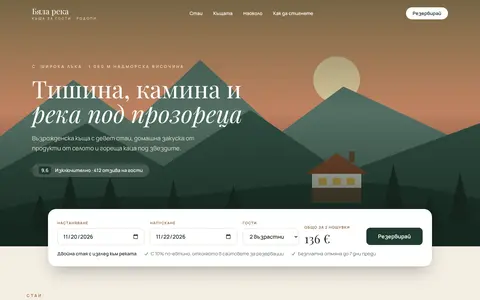
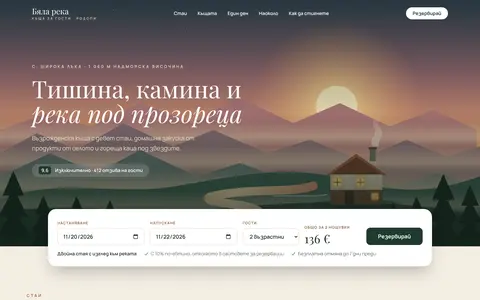
Polish pass on the guest house site
The last of the ten industry sites gets the same pass as the others: a
richer sunset hero, three distinct room pictures, redrawn hot tub and
breakfast pictures, a menu for phones, a short strip about a day at the
house, and hover and entrance motion that is off under reduced motion.
The card screenshot is re-shot.

Claude-Session: https://claude.ai/code/session_01PmsG7av4E6jJnzP6KHLSYz

diff --git a/resources/views/demos/kashta-za-gosti.blade.php b/resources/views/demos/kashta-za-gosti.blade.php
@@ -12,13 +12,28 @@
 @endphp
 
 @section('content')
-<header class="absolute inset-x-0 z-40 text-white">
+<header class="absolute inset-x-0 z-50 text-white">
     <nav class="mx-auto flex h-20 max-w-7xl items-center justify-between px-4">
-        <a href="#" class="demo-serif text-2xl">Бяла река <span class="block text-[10px] font-sans font-semibold uppercase tracking-[0.3em] text-[#e6d3b3]">Къща за гости · Родопи</span></a>
+        <a href="#" class="demo-serif relative z-10 text-2xl">Бяла река <span class="block whitespace-nowrap text-[10px] font-sans font-semibold uppercase tracking-[0.2em] sm:tracking-[0.3em] text-[#e6d3b3]">Къща за гости · Родопи</span></a>
         <div class="hidden items-center gap-8 text-sm font-semibold md:flex">
-            <a href="#stai" class="hover:text-[#e6d3b3]">Стаи</a><a href="#kashtata" class="hover:text-[#e6d3b3]">Къщата</a><a href="#naokolo" class="hover:text-[#e6d3b3]">Наоколо</a><a href="#kontakt" class="hover:text-[#e6d3b3]">Как да стигнете</a>
+            <a href="#stai" class="bz-link">Стаи</a><a href="#kashtata" class="bz-link">Къщата</a><a href="#den" class="bz-link">Един ден</a><a href="#naokolo" class="bz-link">Наоколо</a><a href="#kontakt" class="bz-link">Как да стигнете</a>
         </div>
-        <a href="#rezervaciya" class="rounded-full bg-white px-5 py-2 text-sm font-bold text-[#1f3a2e] hover:bg-[#e6d3b3]">Резервирай</a>
+        <div class="flex items-center gap-2">
+            <a href="#rezervaciya" class="rounded-full bg-white px-5 py-2 text-sm font-bold text-[#1f3a2e] transition hover:bg-[#e6d3b3]">Резервирай</a>
+            <details data-menu class="md:hidden">
+                <summary aria-label="Меню" class="relative z-10 flex h-10 w-10 cursor-pointer list-none items-center justify-center rounded-full border border-white/50 bg-[#14261d]/70 text-white backdrop-blur [&::-webkit-details-marker]:hidden">
+                    <svg viewBox="0 0 24 24" class="h-5 w-5" fill="none" stroke="currentColor" stroke-width="2" stroke-linecap="round"><path class="bz-b1" d="M4 7h16"/><path class="bz-b2" d="M4 12h16"/><path class="bz-b3" d="M4 17h16"/></svg>
+                </summary>
+                <div class="absolute inset-x-0 top-0 -z-0 bg-[#14261d] px-4 pb-6 pt-20 shadow-2xl">
+                    <div class="flex flex-col divide-y divide-white/10 text-lg">
+                        @foreach([['#stai', 'Стаи'], ['#kashtata', 'Къщата'], ['#den', 'Един ден при нас'], ['#naokolo', 'Наоколо'], ['#kontakt', 'Как да стигнете']] as [$href, $label])
+                            <a href="{{ $href }}" class="demo-serif py-3.5 text-white">{{ $label }}</a>
+                        @endforeach
+                    </div>
+                    <a href="#rezervaciya" class="mt-4 block rounded-full bg-[#e6d3b3] py-3.5 text-center font-bold text-[#1f3a2e]">Резервирай</a>
+                </div>
+            </details>
+        </div>
     </nav>
 </header>
 
@@ -26,13 +41,49 @@
 <section class="relative overflow-hidden bg-[#1f3a2e] text-white">
     <x-demo-photo :slug="$demo['slug']" name="hero" alt="Къщата сред Родопите" class="absolute inset-0 h-full w-full">
         <svg viewBox="0 0 1440 760" preserveAspectRatio="xMidYMid slice" class="h-full w-full" fill="none">
-            <defs><linearGradient id="sky" x1="0" y1="0" x2="0" y2="1"><stop stop-color="#f0b97a"/><stop offset=".55" stop-color="#d98a6a"/><stop offset="1" stop-color="#45645a"/></linearGradient></defs>
-            <rect width="1440" height="760" fill="url(#sky)"/><circle cx="1010" cy="250" r="70" fill="#fbe3b0"/>
-            <path d="M0 420 220 250l180 130 200-190 240 220 190-140 410 190v300H0Z" fill="#5f7d70"/>
-            <path d="M0 520 260 380l230 130 260-170 280 190 410-150v380H0Z" fill="#345246"/>
-            <path d="M0 640c240-70 420-20 640-50s520-60 800 20v150H0Z" fill="#1f3a2e"/>
-            <g transform="translate(930 470)"><path d="M-14 62 80 0l94 62Z" fill="#8a4a2a"/><rect x="6" y="62" width="148" height="86" fill="#f4eee3"/><rect x="6" y="104" width="148" height="44" fill="#6b4a33"/><g fill="#f6c453"><rect x="26" y="74" width="24" height="22"/><rect x="68" y="74" width="24" height="22"/><rect x="110" y="74" width="24" height="22"/></g><rect x="118" y="-6" width="16" height="34" fill="#6b4a33"/></g>
-            <g fill="#16291f">@foreach([120, 210, 330, 520, 700, 1180, 1290, 1380] as $i => $x)<path d="M{{ $x }} {{ 700 - ($i % 3) * 24 }}l-34 0 34-{{ 110 + ($i % 2) * 40 }} 34 {{ 110 + ($i % 2) * 40 }}Z"/>@endforeach</g>
+            <defs>
+                <linearGradient id="kz-sky" x1="0" y1="0" x2="0" y2="1"><stop stop-color="#3b4f6b"/><stop offset=".3" stop-color="#a5707a"/><stop offset=".6" stop-color="#f0a56f"/><stop offset="1" stop-color="#f9d49a"/></linearGradient>
+                <radialGradient id="kz-sun" cx=".5" cy=".5" r=".5"><stop stop-color="#fff2c8"/><stop offset=".25" stop-color="#fbd38e" stop-opacity=".85"/><stop offset="1" stop-color="#f4a672" stop-opacity="0"/></radialGradient>
+                <linearGradient id="kz-mist" x1="0" y1="0" x2="0" y2="1"><stop stop-color="#f8d9b0" stop-opacity="0"/><stop offset=".6" stop-color="#f8d9b0" stop-opacity=".55"/><stop offset="1" stop-color="#f8d9b0" stop-opacity="0"/></linearGradient>
+                <linearGradient id="kz-r1" x1="0" y1="0" x2="0" y2="1"><stop stop-color="#b57a7e"/><stop offset="1" stop-color="#c58f80"/></linearGradient>
+                <linearGradient id="kz-r2" x1="0" y1="0" x2="0" y2="1"><stop stop-color="#8a6f7a"/><stop offset="1" stop-color="#a88378"/></linearGradient>
+                <linearGradient id="kz-r3" x1="0" y1="0" x2="0" y2="1"><stop stop-color="#5f6f6e"/><stop offset="1" stop-color="#7d8479"/></linearGradient>
+                <linearGradient id="kz-r4" x1="0" y1="0" x2="0" y2="1"><stop stop-color="#3b5a4e"/><stop offset="1" stop-color="#53705f"/></linearGradient>
+                <linearGradient id="kz-meadow" x1="0" y1="0" x2="0" y2="1"><stop stop-color="#33503f"/><stop offset="1" stop-color="#1c3226"/></linearGradient>
+                <linearGradient id="kz-river" x1="0" y1="0" x2="1" y2="0"><stop stop-color="#e9a77a"/><stop offset=".5" stop-color="#fbe0b0"/><stop offset="1" stop-color="#d98f6c"/></linearGradient>
+                <radialGradient id="kz-win" cx=".5" cy=".5" r=".5"><stop stop-color="#ffd978"/><stop offset="1" stop-color="#ffb347" stop-opacity="0"/></radialGradient>
+                <linearGradient id="kz-smoke" x1="0" y1="1" x2="0" y2="0"><stop stop-color="#f4e6d2" stop-opacity=".6"/><stop offset="1" stop-color="#f4e6d2" stop-opacity="0"/></linearGradient>
+            </defs>
+            <rect width="1440" height="760" fill="url(#kz-sky)"/>
+            <g fill="#fff" opacity=".7"><circle cx="120" cy="70" r="1.5"/><circle cx="340" cy="40" r="1.2"/><circle cx="560" cy="95" r="1.4"/><circle cx="760" cy="30" r="1.2"/><circle cx="1240" cy="60" r="1.5"/><circle cx="1380" cy="130" r="1.2"/></g>
+            
+            <circle class="kz-sun" cx="1010" cy="330" r="260" fill="url(#kz-sun)"/><circle cx="1010" cy="330" r="62" fill="#fff0c4"/>
+            <path d="M0 400 140 350l130 40 150-70 160 60 130-80 170 80 140-60 150 70 130-50 130 60v280H0Z" fill="url(#kz-r1)"/>
+            <rect y="380" width="1440" height="70" fill="url(#kz-mist)"/>
+            <path d="M0 470 110 410l120 50 140-80 150 70 120-50 160 70 130-40 150 60 140-60 120 50 100-30v250H0Z" fill="url(#kz-r2)"/>
+            <rect y="450" width="1440" height="80" fill="url(#kz-mist)"/>
+            <path d="M0 540 150 470l140 60 130-70 170 80 130-40 190 70 120-60 150 60 130-40 130 40v220H0Z" fill="url(#kz-r3)"/>
+            <rect y="520" width="1440" height="90" fill="url(#kz-mist)"/>
+            <path d="M0 610C180 540 330 600 520 570s330-70 520-20 280 30 400-10v220H0Z" fill="url(#kz-r4)"/>
+            <rect y="585" width="1440" height="70" fill="url(#kz-mist)" opacity=".8"/>
+            <path d="M0 650c200-40 420 10 640-12s520-40 800 20v110H0Z" fill="url(#kz-meadow)"/>
+            <path d="M470 760c60-40 180-52 260-80s60-44-40-58c-90-12-90-22 20-34 90-10 170 0 230-20" stroke="url(#kz-river)" stroke-width="26" stroke-linecap="round" opacity=".95"/>
+            <path d="M520 740c70-30 170-44 240-66M820 600c60-6 120 2 160-6" stroke="#fff" stroke-opacity=".55" stroke-width="3" stroke-linecap="round"/>
+            <g transform="translate(985 470)">
+                <ellipse cx="85" cy="152" rx="130" ry="14" fill="#14261d" opacity=".45"/>
+                <path d="M-6 66 84 2l90 64Z" fill="#6b3d28"/><path d="M-6 66 84 2l90 64-10 0L84 12 4 66Z" fill="#9a5836"/>
+                <rect x="6" y="64" width="156" height="90" fill="#cdbfa6"/><rect x="6" y="110" width="156" height="44" fill="#6b4a33"/>
+                <path d="M6 128h156M6 140h156" stroke="#4a3022" stroke-width="1.5"/>
+                <path d="M6 64h40v46H6ZM74 64h44v46H74Z" fill="#b9a98c" opacity=".6"/>
+                <rect x="124" y="-14" width="18" height="38" fill="#6f6a60"/><rect x="121" y="-18" width="24" height="7" fill="#4a463f"/>
+                <g><circle cx="26" cy="86" r="22" fill="url(#kz-win)"/><circle cx="96" cy="86" r="22" fill="url(#kz-win)"/><circle cx="140" cy="130" r="18" fill="url(#kz-win)"/>
+                <rect x="16" y="76" width="22" height="22" fill="#ffd36e"/><rect x="86" y="76" width="22" height="22" fill="#ffd36e"/><rect x="130" y="120" width="20" height="20" fill="#ffc25a"/>
+                <path d="M27 76v22M16 87h22M97 76v22M86 87h22" stroke="#6b4a33" stroke-width="2"/></g>
+                <rect x="50" y="112" width="26" height="42" rx="3" fill="#3c2a1e"/>
+                <path class="kz-smoke" d="M133-20c-14-22 18-34 4-58s20-36 8-62c26 20-6 40 10 62s-6 36-4 58Z" fill="url(#kz-smoke)"/>
+            </g>
+            <g fill="#12241b">@foreach([[40, 770, 1.15], [130, 790, .9], [230, 760, .75], [330, 740, .6], [1250, 750, .7], [1330, 790, 1.2], [1410, 770, .95], [1180, 735, .55]] as [$x, $y, $k])<g transform="translate({{ $x }} {{ $y }}) scale({{ $k }})"><path d="M-46-40 0-120 46-40Z"/><path d="M-38-95 0-170 38-95Z"/><path d="M-28-150 0-215 28-150Z"/><rect x="-5" y="-40" width="10" height="40"/></g>@endforeach</g>
+            <g fill="#f4d9b0" opacity=".5">@foreach([[560, 700], [900, 660], [300, 690], [1100, 640]] as [$x, $y])<circle class="kz-fly" cx="{{ $x }}" cy="{{ $y }}" r="2.2"/>@endforeach</g>
         </svg>
     </x-demo-photo>
     <div class="absolute inset-0 bg-[linear-gradient(180deg,rgba(18,32,26,.55)_0%,rgba(18,32,26,.15)_45%,rgba(18,32,26,.8)_100%)]"></div>
@@ -63,7 +114,7 @@
 </section>
 
 {{-- Rooms --}}
-<section id="stai" class="scroll-mt-16 px-4 py-20">
+<section id="stai" class="dr scroll-mt-16 px-4 py-20">
     <div class="mx-auto max-w-7xl">
         <div class="flex flex-wrap items-end justify-between gap-4">
             <div><p class="text-xs font-bold uppercase tracking-[0.3em] text-[#b5683c]">Стаи</p><h2 class="demo-serif mt-3 text-4xl md:text-5xl">Изберете своята стая</h2></div>
@@ -71,9 +122,31 @@
         </div>
         <div data-pick="room" class="dr mt-12 grid gap-6 lg:grid-cols-3">
             @foreach($rooms as $i => [$name, $meta, $price, $tags, $color])
-                <button type="button" data-value="{{ $name }}" data-price="{{ $price }}" aria-pressed="{{ $i === 0 ? 'true' : 'false' }}" class="group flex flex-col overflow-hidden rounded-3xl bg-white text-left ring-1 ring-[#e2d8c6] transition hover:-translate-y-1 hover:shadow-xl aria-pressed:ring-2 aria-pressed:ring-[#1f3a2e]">
+                <button type="button" data-value="{{ $name }}" data-price="{{ $price }}" aria-pressed="{{ $i === 0 ? 'true' : 'false' }}" class="bz-lift group flex flex-col overflow-hidden rounded-3xl bg-white text-left ring-1 ring-[#e2d8c6] transition hover:-translate-y-1 hover:shadow-xl aria-pressed:ring-2 aria-pressed:ring-[#1f3a2e]">
                     <x-demo-photo :slug="$demo['slug']" name="room-{{ $i + 1 }}" alt="{{ $name }}" class="relative block aspect-[4/3] w-full" style="background: linear-gradient(170deg, {{ $color }}55, {{ $color }})">
-                        <svg viewBox="0 0 400 300" class="h-full w-full" preserveAspectRatio="xMidYMid slice" fill="none"><rect x="230" y="40" width="130" height="110" fill="#f4eee3" opacity=".9"/><path d="M230 95h130M295 40v110" stroke="{{ $color }}" stroke-width="5"/><path d="M40 300v-90c0-10 8-18 18-18h220c10 0 18 8 18 18v90Z" fill="#f4eee3"/><rect x="40" y="150" width="256" height="56" rx="12" fill="#1d2b24" opacity=".75"/><rect x="62" y="176" width="92" height="36" rx="10" fill="#fff"/><rect x="176" y="176" width="92" height="36" rx="10" fill="#fff"/><path d="M40 244h256" stroke="{{ $color }}" stroke-width="10"/><path d="M330 300v-70m0 0c-14 0-20-12-20-24h40c0 12-6 24-20 24Z" stroke="#1d2b24" stroke-width="4"/></svg>
+                        <svg viewBox="0 0 400 300" class="h-full w-full" preserveAspectRatio="xMidYMid slice" fill="none">
+                            <defs><linearGradient id="rw{{ $i }}" x1="0" y1="0" x2="0" y2="1"><stop stop-color="#f1c58f"/><stop offset="1" stop-color="#9fb7a0"/></linearGradient><linearGradient id="rf{{ $i }}" x1="0" y1="0" x2="0" y2="1"><stop stop-color="#a47a56"/><stop offset="1" stop-color="#7a5539"/></linearGradient></defs>
+                            <rect width="400" height="300" fill="#e9dcc3"/><rect y="236" width="400" height="64" fill="url(#rf{{ $i }})"/><path d="M0 236h400" stroke="#5e4029" stroke-width="3"/>
+                            @if($i === 0)
+                                <rect x="214" y="30" width="150" height="130" rx="6" fill="#5d4330"/><rect x="222" y="38" width="134" height="114" fill="url(#rw{{ $i }})"/>
+                                <path d="M222 120 270 92l36 24 50-30v66H222Z" fill="#6c8a73"/><path d="M222 140c40-14 80 6 134-6v18H222Z" fill="#8fc0cf"/><path d="M240 146h60M310 142h40" stroke="#fff" stroke-opacity=".7" stroke-width="2"/><path d="M289 38v114M222 95h134" stroke="#5d4330" stroke-width="5"/>
+                                <path d="M200 30c20 40 6 90 14 130M376 30c-14 40 0 90-12 130" stroke="#b5683c" stroke-width="16" opacity=".85"/>
+                                <rect x="30" y="150" width="150" height="86" rx="8" fill="#6b4a33"/><rect x="24" y="116" width="162" height="50" rx="10" fill="#8a5a3a"/><rect x="34" y="150" width="142" height="62" rx="10" fill="#f8f3ea"/><rect x="44" y="132" width="52" height="30" rx="12" fill="#fff"/><rect x="104" y="132" width="52" height="30" rx="12" fill="#fff"/><path d="M34 188h142v24c0 4-4 6-8 6H42c-4 0-8-2-8-6Z" fill="#b5683c"/>
+                                <rect x="196" y="204" width="26" height="32" rx="3" fill="#6b4a33"/><circle cx="209" cy="194" r="10" fill="#ffd36e"/><circle cx="209" cy="194" r="22" fill="#ffd36e" opacity=".25"/>
+                            @elseif($i === 1)
+                                <rect x="24" y="50" width="120" height="110" rx="6" fill="#5d4330"/><rect x="32" y="58" width="104" height="94" fill="url(#rw{{ $i }})"/><path d="M84 58v94M32 105h104" stroke="#5d4330" stroke-width="4"/>
+                                <rect x="176" y="40" width="200" height="14" rx="3" fill="#6b4a33"/><rect x="176" y="64" width="200" height="8" fill="#f4eee3"/><rect x="190" y="74" width="172" height="162" rx="4" fill="#f4eee3" stroke="#d9ccb2" stroke-width="2"/>
+                                <rect x="190" y="74" width="172" height="50" fill="#fbf7ef"/><rect x="200" y="86" width="52" height="38" rx="4" fill="#b5683c"/><rect x="262" y="94" width="40" height="30" rx="4" fill="#cfa77f"/>
+                                <circle cx="330" cy="104" r="14" fill="#1d2b24"/><circle cx="330" cy="104" r="8" fill="#3b4a42"/><path d="M190 166h172M190 200h172" stroke="#d9ccb2" stroke-width="2"/><rect x="262" y="140" width="26" height="12" rx="3" fill="#8a5a3a"/><path d="M265 60c-6-8 6-10 0-18" stroke="#b5683c" stroke-width="2"/>
+                                <rect x="40" y="170" width="116" height="66" rx="8" fill="#4d6b8a"/><rect x="34" y="150" width="128" height="36" rx="12" fill="#6785a4"/><rect x="48" y="160" width="40" height="22" rx="8" fill="#e9dcc3"/><rect x="96" y="160" width="40" height="22" rx="8" fill="#b5683c"/>
+                                <rect x="294" y="214" width="42" height="22" rx="4" fill="#8a5a3a"/><circle cx="315" cy="196" r="12" fill="#3f8a5c"/><path d="M315 208v8" stroke="#2c5a3d" stroke-width="3"/>
+                            @else
+                                <rect x="150" y="26" width="100" height="84" rx="5" fill="#5d4330"/><rect x="157" y="33" width="86" height="70" fill="url(#rw{{ $i }})"/><path d="M200 33v70M157 68h86" stroke="#5d4330" stroke-width="4"/><path d="M157 90 190 70l24 14 29-16v35H157Z" fill="#587a62"/>
+                                <rect x="14" y="120" width="170" height="116" rx="8" fill="#4d6b8a"/><rect x="14" y="98" width="170" height="40" rx="10" fill="#3f5a75"/><rect x="26" y="120" width="68" height="28" rx="10" fill="#f8f3ea"/><rect x="104" y="120" width="68" height="28" rx="10" fill="#f8f3ea"/><rect x="14" y="158" width="170" height="20" fill="#6b8fb0" opacity=".6"/>
+                                <rect x="212" y="150" width="174" height="86" rx="8" fill="#6b4a33"/><rect x="206" y="128" width="186" height="38" rx="10" fill="#8a5a3a"/><rect x="218" y="150" width="70" height="26" rx="10" fill="#fff"/><rect x="304" y="150" width="70" height="26" rx="10" fill="#fff"/><path d="M206 192h186v16H206Z" fill="#b5683c"/>
+                                <rect x="196" y="190" width="6" height="46" fill="#5d4330"/><circle cx="199" cy="182" r="12" fill="#ffd36e"/><circle cx="199" cy="182" r="26" fill="#ffd36e" opacity=".22"/><ellipse cx="200" cy="266" rx="90" ry="12" fill="#b5683c" opacity=".55"/>
+                            @endif
+                        </svg>
                     </x-demo-photo>
                     <span class="flex flex-1 flex-col p-6">
                         <span class="demo-serif text-2xl leading-snug">{{ $name }}</span>
@@ -88,7 +161,7 @@
 </section>
 
 {{-- The house --}}
-<section id="kashtata" class="scroll-mt-16 bg-[#1f3a2e] px-4 py-20 text-white">
+<section id="kashtata" class="dr scroll-mt-16 bg-[#1f3a2e] px-4 py-20 text-white">
     <div class="mx-auto grid max-w-7xl items-center gap-12 lg:grid-cols-2">
         <div>
             <p class="text-xs font-bold uppercase tracking-[0.3em] text-[#e6d3b3]">Къщата</p>
@@ -103,7 +176,30 @@
         <div class="grid grid-cols-2 gap-4">
             @foreach([['house-1', 'Гореща каца под звездите', '#27475a', 'aspect-[3/4]'], ['house-2', 'Закуска на двора', '#b5683c', 'aspect-[3/4] mt-10']] as [$file, $alt, $color, $shape])
                 <x-demo-photo :slug="$demo['slug']" :name="$file" :alt="$alt" class="relative w-full overflow-hidden rounded-3xl {{ $shape }}" style="background: linear-gradient(170deg, {{ $color }}, #14261d)">
-                    <svg viewBox="0 0 150 200" class="h-full w-full" fill="none">@if($loop->first)<g fill="#fff">@foreach([[20, 30], [60, 18], [110, 40], [130, 80], [40, 70], [90, 62]] as [$x, $y])<circle cx="{{ $x }}" cy="{{ $y }}" r="1.6"/>@endforeach</g><ellipse cx="75" cy="140" rx="48" ry="12" fill="#6fa8c7"/><path d="M27 140v30c0 8 96 8 96 0v-30" fill="#8a5a3a"/><path d="M60 118c-6-8 6-10 0-18m18 18c-6-8 6-10 0-18m18 18c-6-8 6-10 0-18" stroke="#fff" stroke-opacity=".6" stroke-width="2" stroke-linecap="round"/>@else<ellipse cx="75" cy="120" rx="52" ry="34" fill="#f4eee3"/><circle cx="58" cy="114" r="12" fill="#e9b949"/><circle cx="92" cy="110" r="10" fill="#fff" stroke="#b5683c" stroke-width="2"/><path d="M70 136c8 4 18 4 26-2" stroke="#8a4a2a" stroke-width="4" stroke-linecap="round"/><path d="M118 70c-6-8 6-10 0-18" stroke="#fff" stroke-opacity=".6" stroke-width="2" stroke-linecap="round"/><rect x="108" y="76" width="22" height="20" rx="4" fill="#f4eee3"/>@endif</svg>
+                    <svg viewBox="0 0 150 200" class="h-full w-full" preserveAspectRatio="xMidYMid slice" fill="none">
+                        <defs><radialGradient id="kh{{ $loop->index }}" cx=".5" cy=".5" r=".5"><stop stop-color="#ffd98a" stop-opacity=".9"/><stop offset="1" stop-color="#ffd98a" stop-opacity="0"/></radialGradient><linearGradient id="kw{{ $loop->index }}" x1="0" y1="0" x2="0" y2="1"><stop stop-color="#8fd0e6"/><stop offset="1" stop-color="#3f87a8"/></linearGradient></defs>
+                        @if($loop->first)
+                            <g fill="#fff">@foreach([[20, 30, 1.6], [60, 18, 1.2], [110, 40, 1.8], [130, 80, 1.2], [40, 70, 1.3], [90, 62, 1.5], [12, 100, 1], [140, 20, 1.2]] as [$x, $y, $r])<circle cx="{{ $x }}" cy="{{ $y }}" r="{{ $r }}"/>@endforeach</g>
+                            <circle cx="112" cy="36" r="13" fill="#fbe9b8"/><circle cx="117" cy="33" r="11" fill="#27475a"/>
+                            <path d="M0 150 30 108l30 28 30-34 60 42v56H0Z" fill="#0f2330" opacity=".7"/>
+                            <path d="M-4 200V150c30-10 50-8 70 0s60 6 88-4v54Z" fill="#14261d"/>
+                            <path d="M8 138 20 96l10 42ZM126 140l12-52 12 52Z" fill="#0c1a14"/>
+                            <ellipse cx="75" cy="146" rx="56" ry="15" fill="#5a3a26"/><ellipse cx="75" cy="142" rx="52" ry="12" fill="url(#kw0)"/><ellipse cx="75" cy="142" rx="52" ry="12" stroke="#c28a5a" stroke-width="3"/><ellipse cx="62" cy="141" rx="22" ry="4" fill="#fff" opacity=".25"/>
+                            <path d="M27 148v22c0 10 96 10 96 0v-22" fill="#8a5a3a"/><path d="M40 156v20M55 160v20M70 162v20M85 162v20M100 160v20M112 156v20" stroke="#5e3b24" stroke-width="2"/>
+                            <path d="M55 126c-7-9 7-12 0-22m20 22c-7-9 7-12 0-22m20 22c-7-9 7-12 0-22" stroke="#fff" stroke-opacity=".55" stroke-width="2.5" stroke-linecap="round"/>
+                            <circle cx="22" cy="160" r="12" fill="url(#kh0)"/><rect x="19" y="158" width="6" height="12" rx="2" fill="#ffd36e"/>
+                            <rect x="124" y="164" width="14" height="10" rx="2" fill="#f4eee3"/><path d="M127 164c0-6 8-6 8 0" stroke="#f4eee3" stroke-width="2"/>
+                        @else
+                            <rect width="150" height="200" fill="#d9894f" opacity=".35"/><circle cx="118" cy="38" r="30" fill="#ffe2a0" opacity=".7"/>
+                            <path d="M0 78h150" stroke="#6b3d28" stroke-width="3"/><path d="M-4 78 16 40l20 38M30 78 52 34l22 44" fill="#7a4a30"/>
+                            <path d="M0 200V150c40-10 90-10 150 0v50Z" fill="#5f8a54"/><path d="M0 200V170c50-8 100-8 150 0v30Z" fill="#4a7345"/>
+                            <path d="M30 128 20 190M120 128l10 62" stroke="#6b4a33" stroke-width="5" stroke-linecap="round"/><rect x="14" y="124" width="122" height="10" rx="3" fill="#8a5a3a"/>
+                            <path d="M22 124h106l-8-14H30Z" fill="#fff" opacity=".9"/><path d="M30 124h14l-4-14h-6ZM62 124h14l-2-14h-10ZM94 124h14l-4-14h-6Z" fill="#c9503a"/>
+                            <ellipse cx="75" cy="122" rx="46" ry="9" fill="#f8f3ea"/><circle cx="50" cy="117" r="9" fill="#e9b949"/><circle cx="50" cy="117" r="5" fill="#f6d36e"/><circle cx="82" cy="115" r="8" fill="#fff" stroke="#b5683c" stroke-width="2"/><path d="M98 118c6-8 14-8 18 0z" fill="#8a4a2a"/>
+                            <rect x="58" y="96" width="14" height="20" rx="3" fill="#f4eee3"/><path d="M60 100h10" stroke="#b5683c" stroke-width="2"/><path d="M65 94c-5-7 5-9 0-16" stroke="#fff" stroke-opacity=".7" stroke-width="2" stroke-linecap="round"/>
+                            <rect x="104" y="94" width="18" height="22" rx="3" fill="#f4eee3"/><path d="M104 102h18" stroke="#6b4a33" stroke-width="2"/>
+                        @endif
+                    </svg>
                     <span class="absolute bottom-3 left-3 rounded-full bg-black/45 px-3 py-1 text-xs font-semibold">{{ $alt }}</span>
                 </x-demo-photo>
             @endforeach
@@ -111,8 +207,37 @@
     </div>
 </section>
 
+{{-- A day here --}}
+<section id="den" class="dr scroll-mt-16 bg-[#e8dfce] px-4 py-20">
+    <div class="mx-auto max-w-7xl">
+        <p class="text-xs font-bold uppercase tracking-[0.3em] text-[#b5683c]">Един ден при нас</p>
+        <h2 class="demo-serif mt-3 max-w-2xl text-4xl md:text-5xl">От мекиците до звездите</h2>
+        <div class="mt-12 grid gap-4 sm:grid-cols-2 lg:grid-cols-4">
+            @foreach([
+                ['08:30', 'Закуска на двора', 'Топли мекици, сирене, мед и билков чай.', '#f0b97a', '#d98a6a'],
+                ['11:00', 'Пътека през гората', 'Домакините начертават маршрут по вкуса ви.', '#9fb7a0', '#4d6b5a'],
+                ['16:00', 'Чай до реката', 'Одеяла, термос и тишина на брега.', '#a9c4cf', '#5f8a9a'],
+                ['21:00', 'Каца под звездите', 'Гореща вода и небе без градски светлини.', '#4a6a86', '#1b2f40'],
+            ] as $k => [$time, $title, $text, $c1, $c2])
+                <article class="bz-lift group overflow-hidden rounded-3xl bg-[#f4eee3] ring-1 ring-[#d3c7b0]">
+                    <div class="relative aspect-[5/4]" style="background: linear-gradient(170deg, {{ $c1 }}, {{ $c2 }})">
+                        <svg viewBox="0 0 200 160" class="h-full w-full" preserveAspectRatio="xMidYMid slice" fill="none" aria-hidden="true">
+                            @if($k === 0)<circle cx="150" cy="40" r="22" fill="#fff2c8"/><path d="M0 110h200v50H0Z" fill="#8a5a3a"/><ellipse cx="100" cy="104" rx="56" ry="12" fill="#f8f3ea"/><circle cx="80" cy="98" r="10" fill="#e9b949"/><circle cx="116" cy="97" r="9" fill="#fff" stroke="#b5683c" stroke-width="2"/><path d="M60 60c-6-8 6-10 0-18" stroke="#fff" stroke-opacity=".7" stroke-width="2.5" stroke-linecap="round"/>
+                            @elseif($k === 1)<path d="M0 100 50 60l40 30 50-44 60 50v64H0Z" fill="#3b5a4e"/>@foreach([30, 80, 130, 175] as $x)<path d="M{{ $x }} 150l-18 0 18-52 18 52Z M{{ $x }} 120l-14 0 14-40 14 40Z" fill="#17301f"/>@endforeach<path d="M92 160c10-20 30-26 40-44" stroke="#f4eee3" stroke-width="5" stroke-linecap="round" stroke-dasharray="2 9"/>
+                            @elseif($k === 2)<path d="M0 90h200v70H0Z" fill="#5f8a9a"/><path d="M0 100c40-8 90 8 200-4v10c-110 12-160-4-200 4Z" fill="#fff" opacity=".35"/><rect x="60" y="100" width="70" height="8" rx="3" fill="#b5683c"/><rect x="82" y="68" width="14" height="24" rx="3" fill="#f4eee3"/><path d="M89 62c-5-6 5-8 0-14" stroke="#fff" stroke-opacity=".7" stroke-width="2" stroke-linecap="round"/><path d="M0 90c30-24 60-6 90-16s70 10 110-6v22Z" fill="#3b5a4e"/>
+                            @else<g fill="#fff">@foreach([[20, 24], [60, 14], [110, 30], [160, 18], [180, 56], [40, 56]] as [$x, $y])<circle cx="{{ $x }}" cy="{{ $y }}" r="1.6"/>@endforeach</g><path d="M0 110h200v50H0Z" fill="#0f2330"/><ellipse cx="100" cy="116" rx="60" ry="14" fill="#6fa8c7"/><ellipse cx="100" cy="116" rx="60" ry="14" stroke="#c28a5a" stroke-width="3"/><path d="M80 98c-6-8 6-10 0-18m22 18c-6-8 6-10 0-18m22 18c-6-8 6-10 0-18" stroke="#fff" stroke-opacity=".55" stroke-width="2.5" stroke-linecap="round"/>@endif
+                        </svg>
+                        <span class="absolute left-3 top-3 rounded-full bg-[#14261d]/80 px-3 py-1 text-xs font-bold text-white">{{ $time }}</span>
+                    </div>
+                    <div class="p-5"><h3 class="demo-serif text-xl">{{ $title }}</h3><p class="mt-1.5 text-sm leading-relaxed text-[#4a5a51]">{{ $text }}</p></div>
+                </article>
+            @endforeach
+        </div>
+    </div>
+</section>
+
 {{-- Around --}}
-<section id="naokolo" class="scroll-mt-16 px-4 py-20">
+<section id="naokolo" class="dr scroll-mt-16 px-4 py-20">
     <div class="mx-auto max-w-7xl">
         <h2 class="demo-serif max-w-2xl text-4xl md:text-5xl">Какво да правите наоколо</h2>
         <div class="dr mt-12 grid gap-px overflow-hidden rounded-3xl bg-[#e2d8c6] sm:grid-cols-2 lg:grid-cols-4">
@@ -126,7 +251,7 @@
                 ['Резервирах от сайта за две минути и излезе по-евтино, отколкото другаде. Кацата през януари е преживяване.', 'Александър Т.', 'Пловдив'],
                 ['Бяхме с две деца и куче. Никой не ни направи забележка, напротив, децата хранеха козите на съседите.', 'Милена В.', 'Варна'],
             ] as [$quote, $who, $city])
-                <figure class="rounded-3xl bg-white p-7 ring-1 ring-[#e2d8c6]">
+                <figure class="bz-lift rounded-3xl bg-white p-7 ring-1 ring-[#e2d8c6]">
                     <p class="inline-block rounded-md bg-[#1f3a2e] px-2 py-0.5 text-sm font-bold text-white">10</p>
                     <blockquote class="demo-serif mt-4 text-xl leading-snug">„{{ $quote }}“</blockquote>
                     <figcaption class="mt-5 text-sm font-semibold">{{ $who }} <span class="font-normal text-[#5c6b62]">· {{ $city }}</span></figcaption>
@@ -157,6 +282,31 @@
 <footer class="bg-[#1f3a2e] px-4 py-8 text-center text-sm text-[#cfd9d2]">Къща за гости „Бяла река“ · с. Широка лъка, община Смолян · Категория три звезди</footer>
 @endsection
 
+@push('head')
+<style>
+    .bz-link { position: relative; padding: .25rem 0; }
+    .bz-link::after { content: ""; position: absolute; left: 0; right: 0; bottom: -2px; height: 2px; background: #e6d3b3; transform: scaleX(0); transform-origin: left; }
+    details[data-menu][open] .bz-b1 { transform: translateY(5px) rotate(45deg); transform-origin: center; transform-box: fill-box; }
+    details[data-menu][open] .bz-b2 { opacity: 0; }
+    details[data-menu][open] .bz-b3 { transform: translateY(-5px) rotate(-45deg); transform-origin: center; transform-box: fill-box; }
+    @media (prefers-reduced-motion: no-preference) {
+        .bz-link::after { transition: transform .3s ease; }
+        .bz-link:hover::after { transform: scaleX(1); }
+        .bz-lift { transition: transform .35s ease, box-shadow .35s ease; }
+        .bz-lift:hover { transform: translateY(-6px); box-shadow: 0 20px 40px -18px rgba(31,58,46,.45); }
+        details[data-menu] svg path { transition: transform .25s ease, opacity .2s ease; }
+        details[data-menu][open] > div { animation: bz-in .25s ease; }
+        .kz-sun { transform-origin: center; transform-box: fill-box; animation: bz-pulse 6s ease-in-out infinite; }
+        .kz-smoke { animation: bz-smoke 7s ease-in-out infinite; }
+        .kz-fly { animation: bz-fly 4s ease-in-out infinite; }
+        @keyframes bz-pulse { 50% { opacity: .75; transform: scale(1.06); } }
+        @keyframes bz-smoke { 50% { transform: translate(6px, -8px); opacity: .6; } }
+        @keyframes bz-fly { 50% { transform: translateY(-10px); opacity: .2; } }
+        @keyframes bz-in { from { opacity: 0; transform: translateY(-6px); } }
+    }
+</style>
+@endpush
+
 @push('scripts')
 <script>
     (function () {
@@ -175,6 +325,7 @@
             draw();
         });
         draw();
+        document.querySelectorAll('details[data-menu] a').forEach(function (a) { a.addEventListener('click', function () { a.closest('details').removeAttribute('open'); }); });
     })();
 </script>
 @endpush
